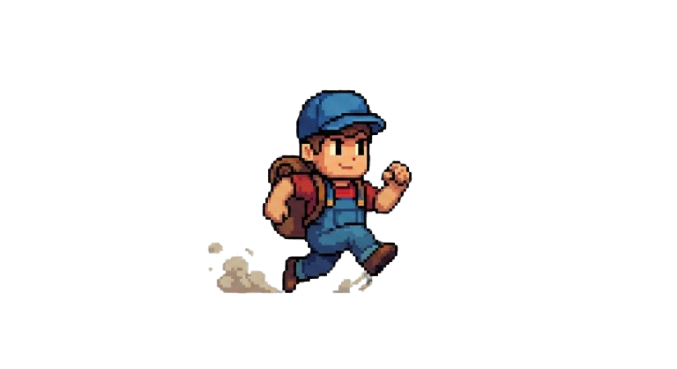
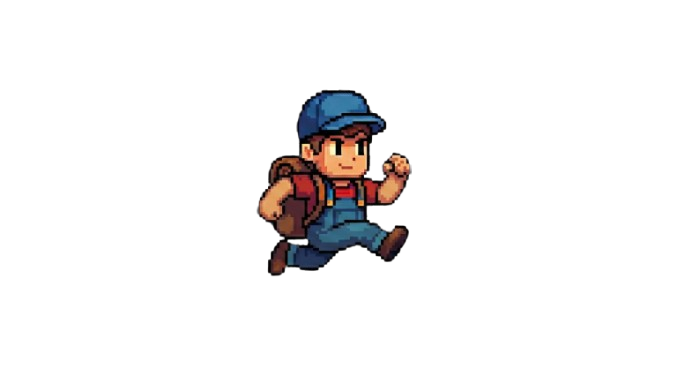
character

Changed region(s): [[0.3102, 0.4173, 0.6204, 0.8049], [0.4343, 0.3577, 0.4653, 0.3875], [0.4032, 0.4173, 0.4343, 0.4472]]

diff --git a/person.java b/person.java
@@ -6,7 +6,7 @@ import javax.swing.*;
 
 public class person extends JPanel {
 
-    int boardWidth = 500;
+    int boardWidth = 800;
     int boardHeight = 500;
 
     Image backgroundImg;
@@ -14,33 +14,34 @@ public class person extends JPanel {
     Image rightImg;
 
     // person position
-    int personX = boardWidth/8;
-    int personY = boardHeight/2;
-    int personWidth = 240;
-    int personHeight = 240;
+    int personX = boardWidth / 8;
+    int personY = boardHeight / 2;
+    int personWidth = 300;
+    int personHeight = 200;
 
-    class per1{
+    class per1 {
         int x = personX;
         int y = personY;
         int width = personWidth;
         int height = personHeight;
         Image img;
 
-        per1(Image img){
+        per1(Image img) {
             this.img = img;
         }
     }
-    //game logic
+
+    // game logic
     per1 per2;
 
     person() {
         setPreferredSize(new Dimension(boardWidth, boardHeight));
-        //setBackground(Color.blue);
+        // setBackground(Color.blue);
         backgroundImg = new ImageIcon(getClass().getResource("backgroundImg.png")).getImage();
         leftImg = new ImageIcon(getClass().getResource("leftImg.png")).getImage();
-//        rightImg = new ImageIcon(getClass().getResource("rightImg")).getImage();
+        // rightImg = new ImageIcon(getClass().getResource("rightImg")).getImage();
 
-        //person
+        // person
         per2 = new per1(leftImg);
 
     }
@@ -51,11 +52,11 @@ public class person extends JPanel {
     }
 
     public void draw(Graphics g) {
-        //background
+        // background
         g.drawImage(backgroundImg, 0, 0, boardWidth, boardHeight, null);
 
-        //person
-        g.drawImage(per2.img,per2.x,per2.y,per2.width,per2.height,null);
+        // person
+        g.drawImage(per2.img, per2.x, per2.y, per2.width, per2.height, null);
     }
 }
-//check
+// check

diff --git a/app.java b/app.java
@@ -2,7 +2,7 @@ import javax.swing.*;
 
 public class app {
     public static void main(String[] args) {
-        int boardWidth = 500;
+        int boardWidth = 800;
         int boardHeight = 500;
 
         JFrame frame = new JFrame("PERSON");
